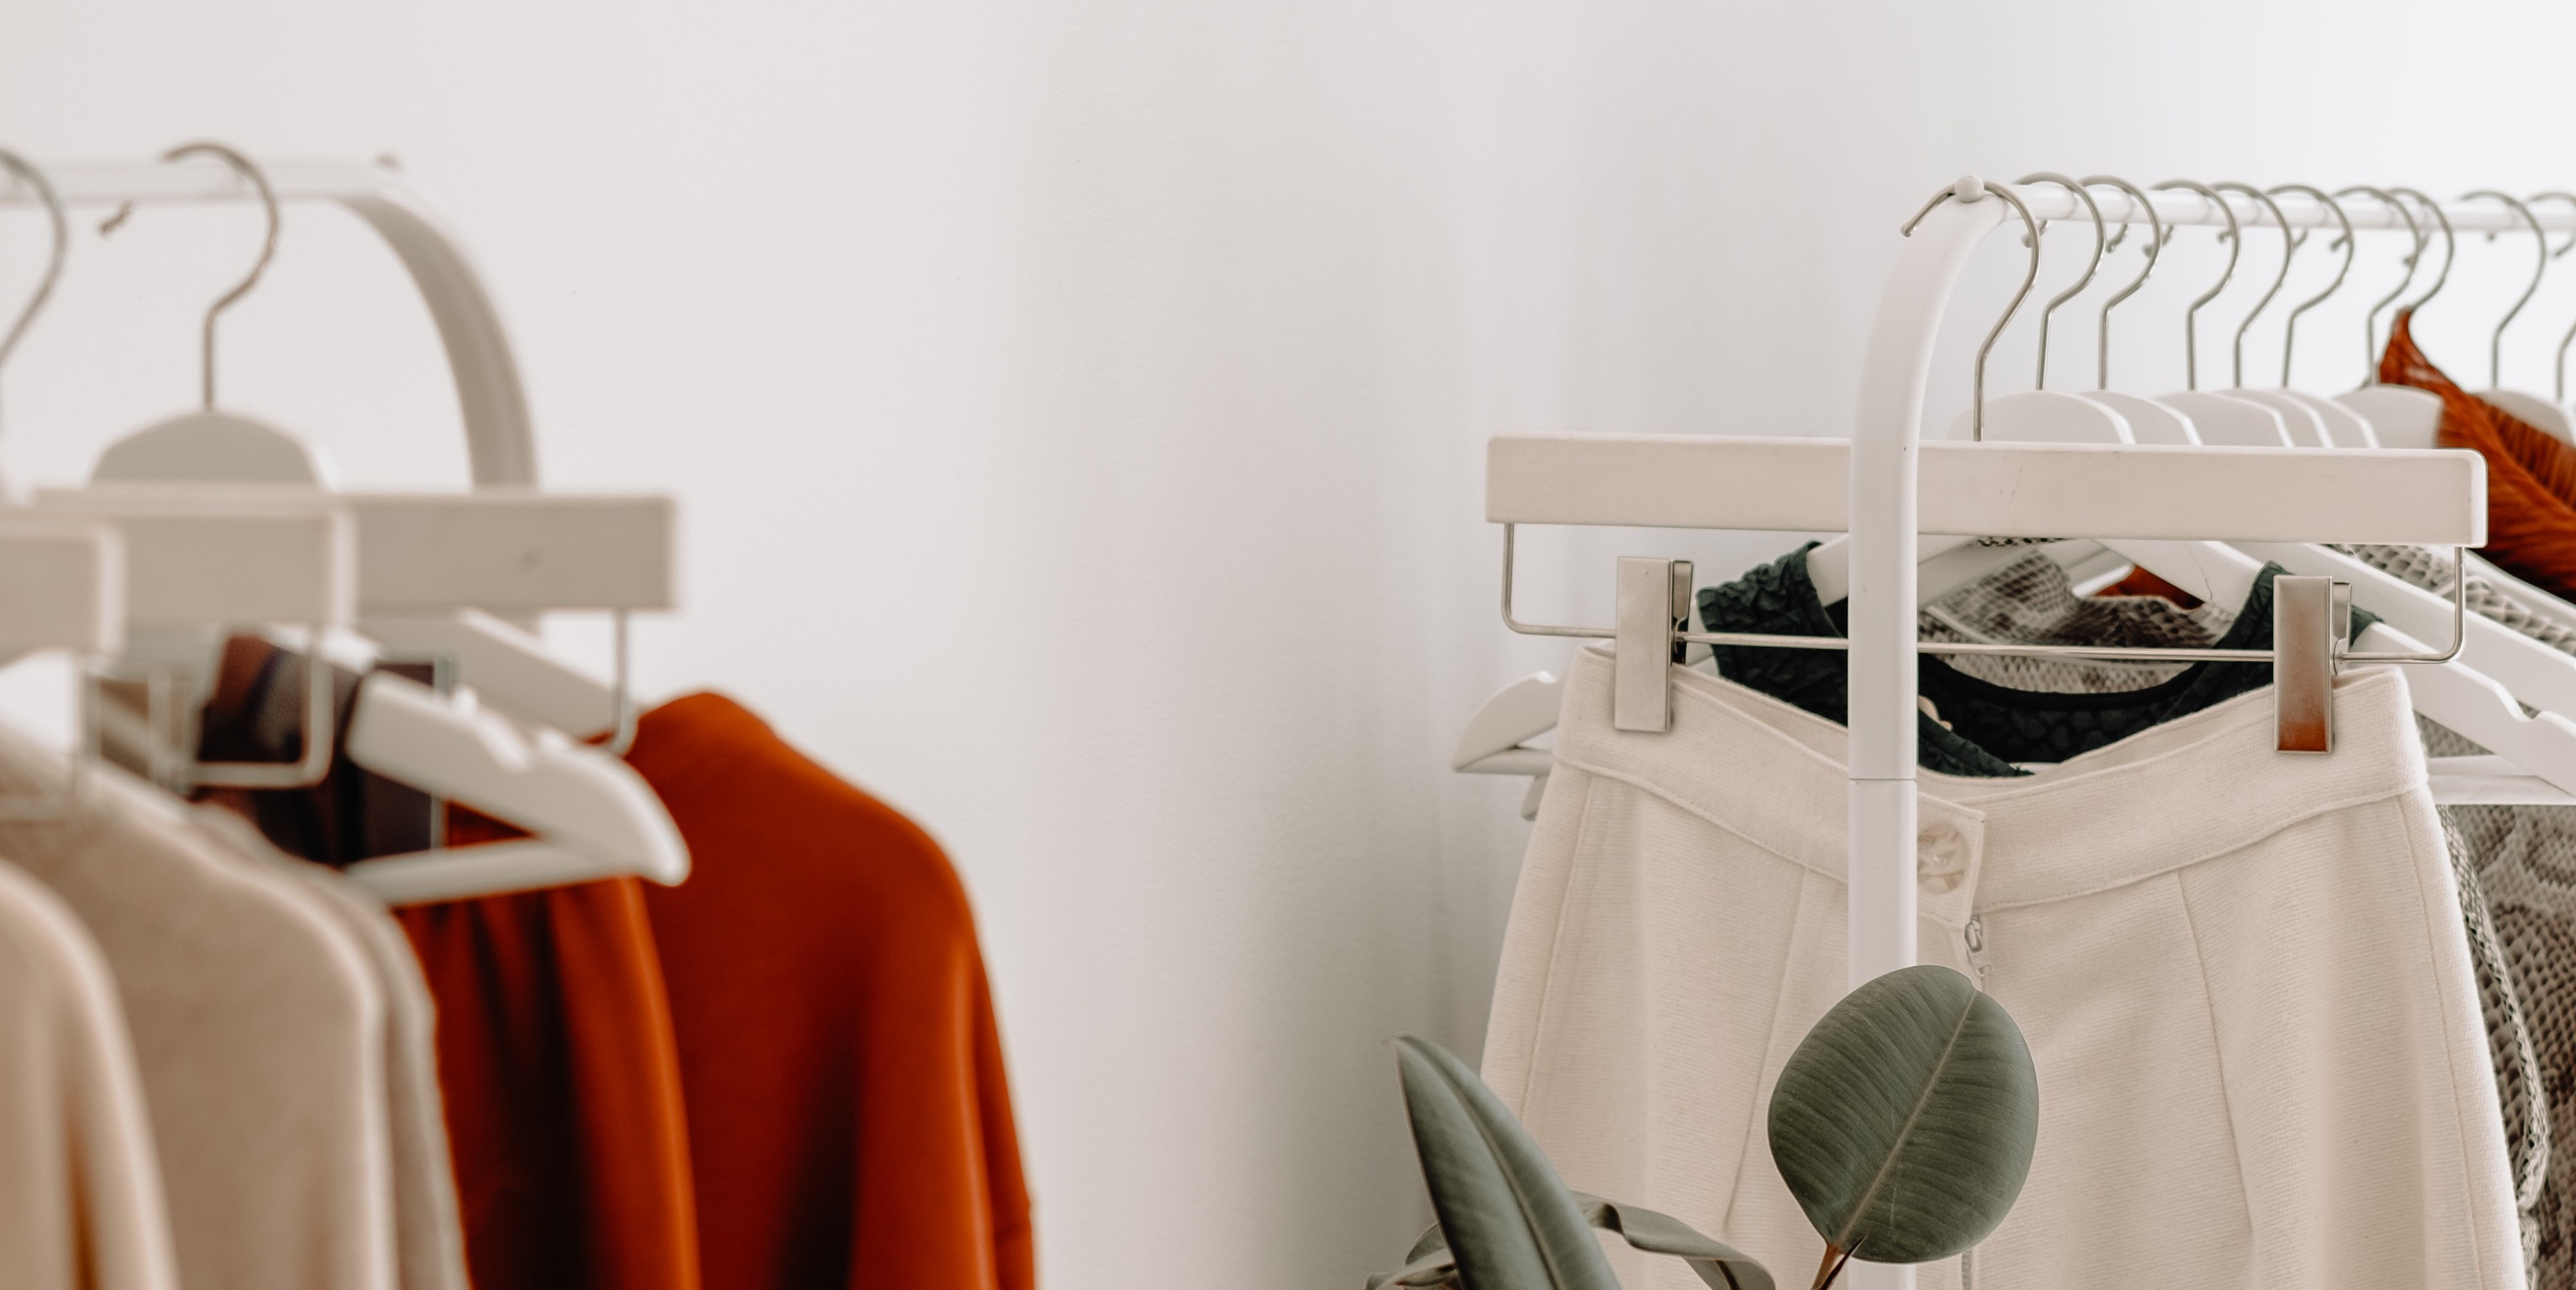
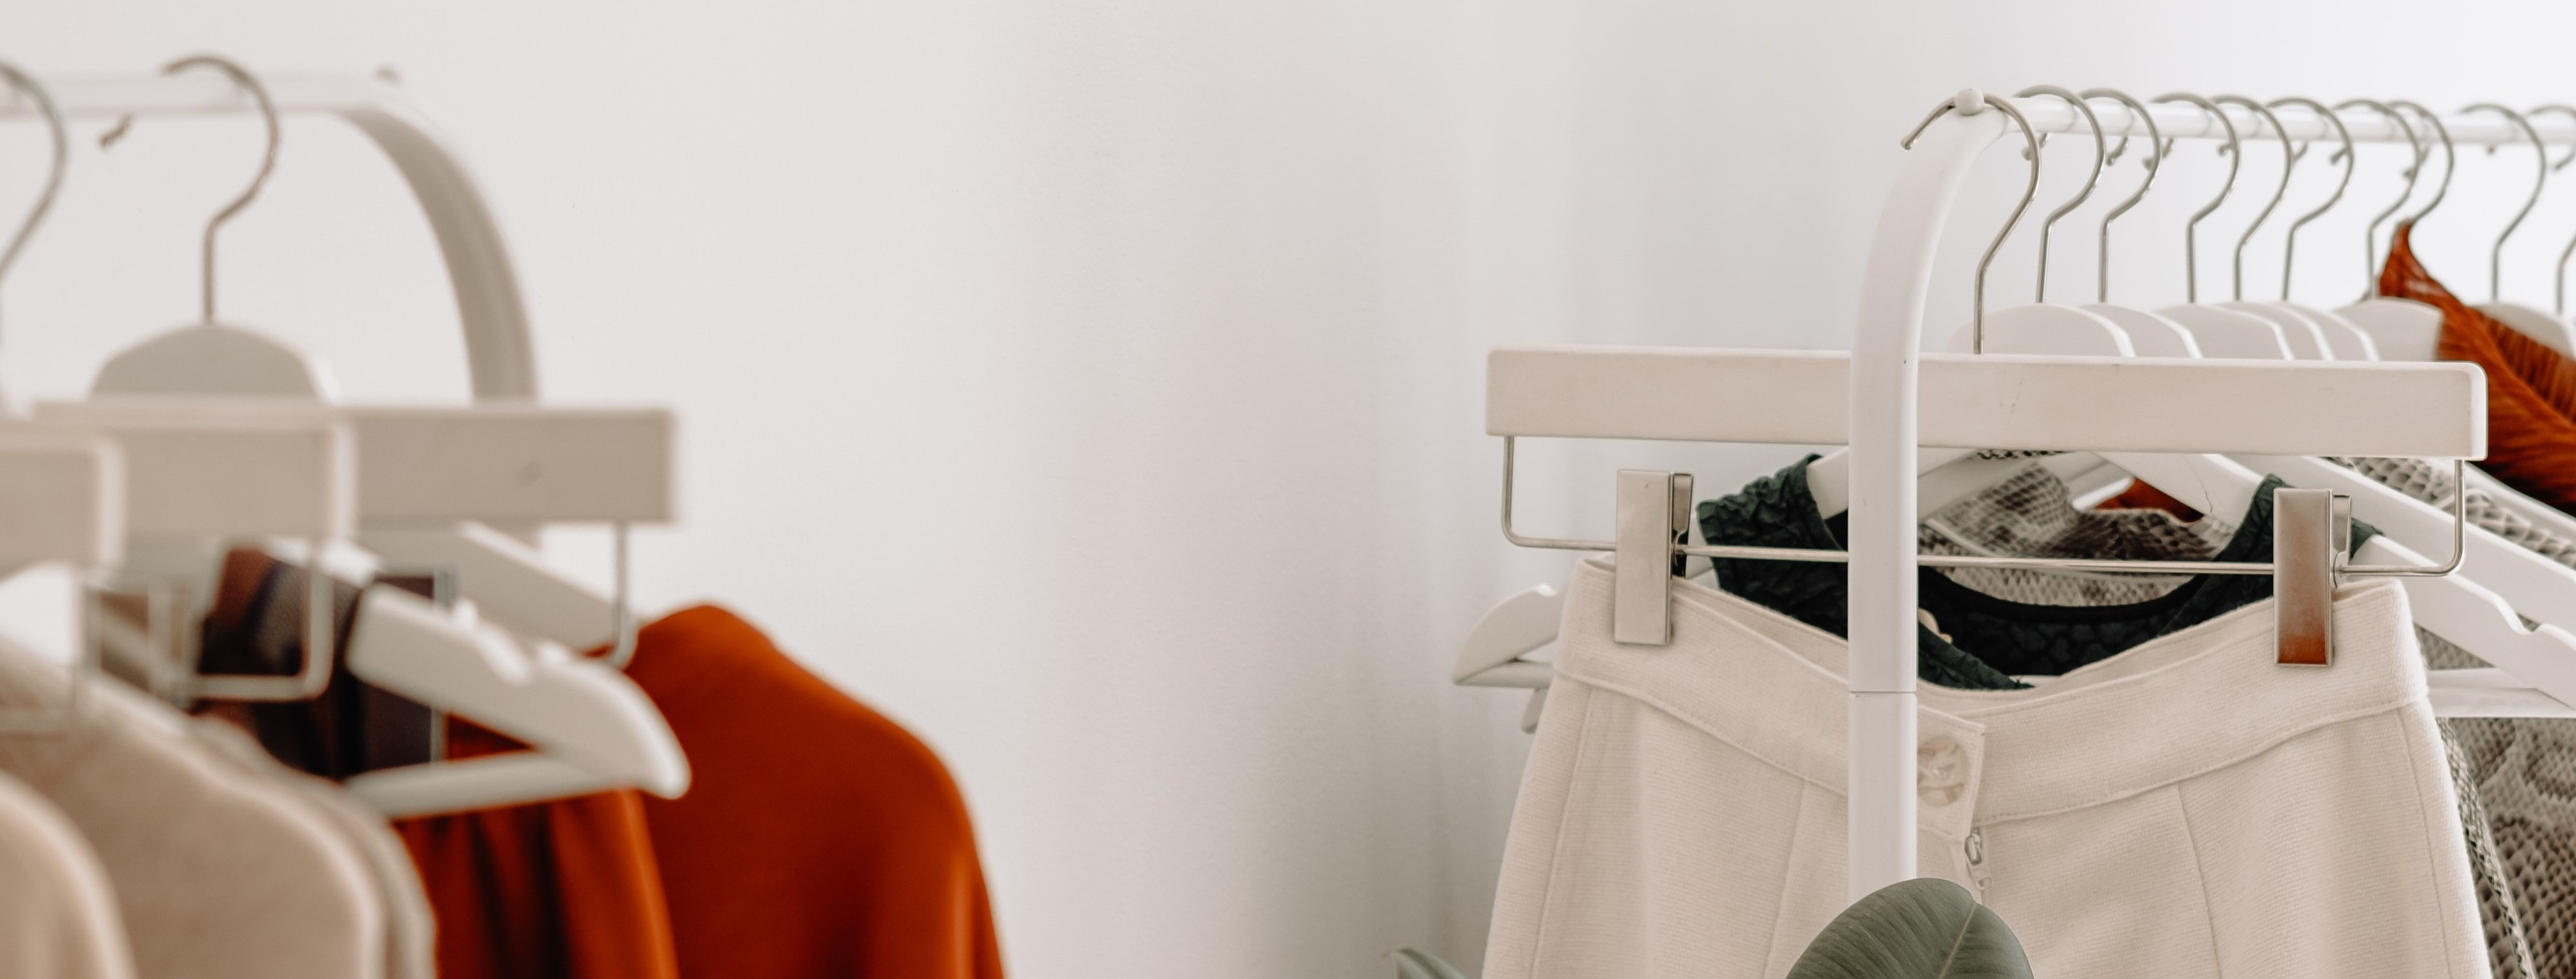
pagina sobre nos finalizada!

diff --git a/css/aboutUs.css b/css/aboutUs.css
@@ -23,15 +23,16 @@ h2 {
     align-items: center;
 }
 
-div.titulo-img {
-    background-image: url('../assets/imgs/fundo-about-us.jpg');
-    background-repeat: no-repeat;
-    background-position: top center;
-    background-size: 60vw 70vh;
+#imgInicio {
+    display: flexbox;
+    align-items: center;
+    width: 100vw;
+    height: 60vh;
+    object-fit: cover;
 }
 
 #tituloSobre {
-    padding-top: 80vh;
+    padding-top: 10vh;
     text-align: center;
     padding-bottom: 7vh;
     color: #B06426;
@@ -52,46 +53,37 @@ div.titulo-img {
 }
 
 @media screen and (max-width: 360px){
-    div.titulo-img {
-        background-size: 80vw auto;
-    }
-    #tituloSobre {
-        padding-top: 40vh;
-    }
     #sobre, .subtitulo, #endereco, #redesSociais {
         text-align: justify;
         margin-left: 15vw;
         margin-right: 15vw;
     }
+    #imgInicio {
+        width: 100vw;
+        height: auto;
+    }
     h1 {
-        font-size: 30px;
+        font-size: 20px;
     }
 }
 
 @media screen and (min-width: 361px) and (max-width: 1024px) {
-    div.titulo-img {
-        background-size: 80vw auto;
-    }
-    #tituloSobre {
-        padding-top: 45vh;
-    }
     #sobre, .subtitulo, #endereco, #redesSociais {
         text-align: justify;
         margin-left: 10vw;
         margin-right: 10vw;
     }
     h1 {
-        font-size: 30px;
+        font-size: 25px;
+    }
+    #imgInicio {
+        width: 100vw;
+        height: auto;
     }
 }
 
+
 @media screen and (min-width: 1024px) and (max-width: 2010px){
-    div.titulo-img {
-        background-size: 80vw auto;
-    }
-    #tituloSobre {
-        padding-top: 70vh;
-    }
     #sobre, .subtitulo, #endereco, #redesSociais {
         text-align: justify;
         margin-left: 10vw;

diff --git a/html/aboutUs.html b/html/aboutUs.html
@@ -37,6 +37,7 @@
 
 <body>
     <div class="titulo-img"> 
+        <img id="imgInicio" class="img" src="../assets/imgs/fundo-about-us.jpg" alt="Imagem que mostra roupas em cabides com fundo branco">
         <h1 id="tituloSobre" class="titulo"> Sobre a Retroc</h1>
     </div>
     <div class="texto">
